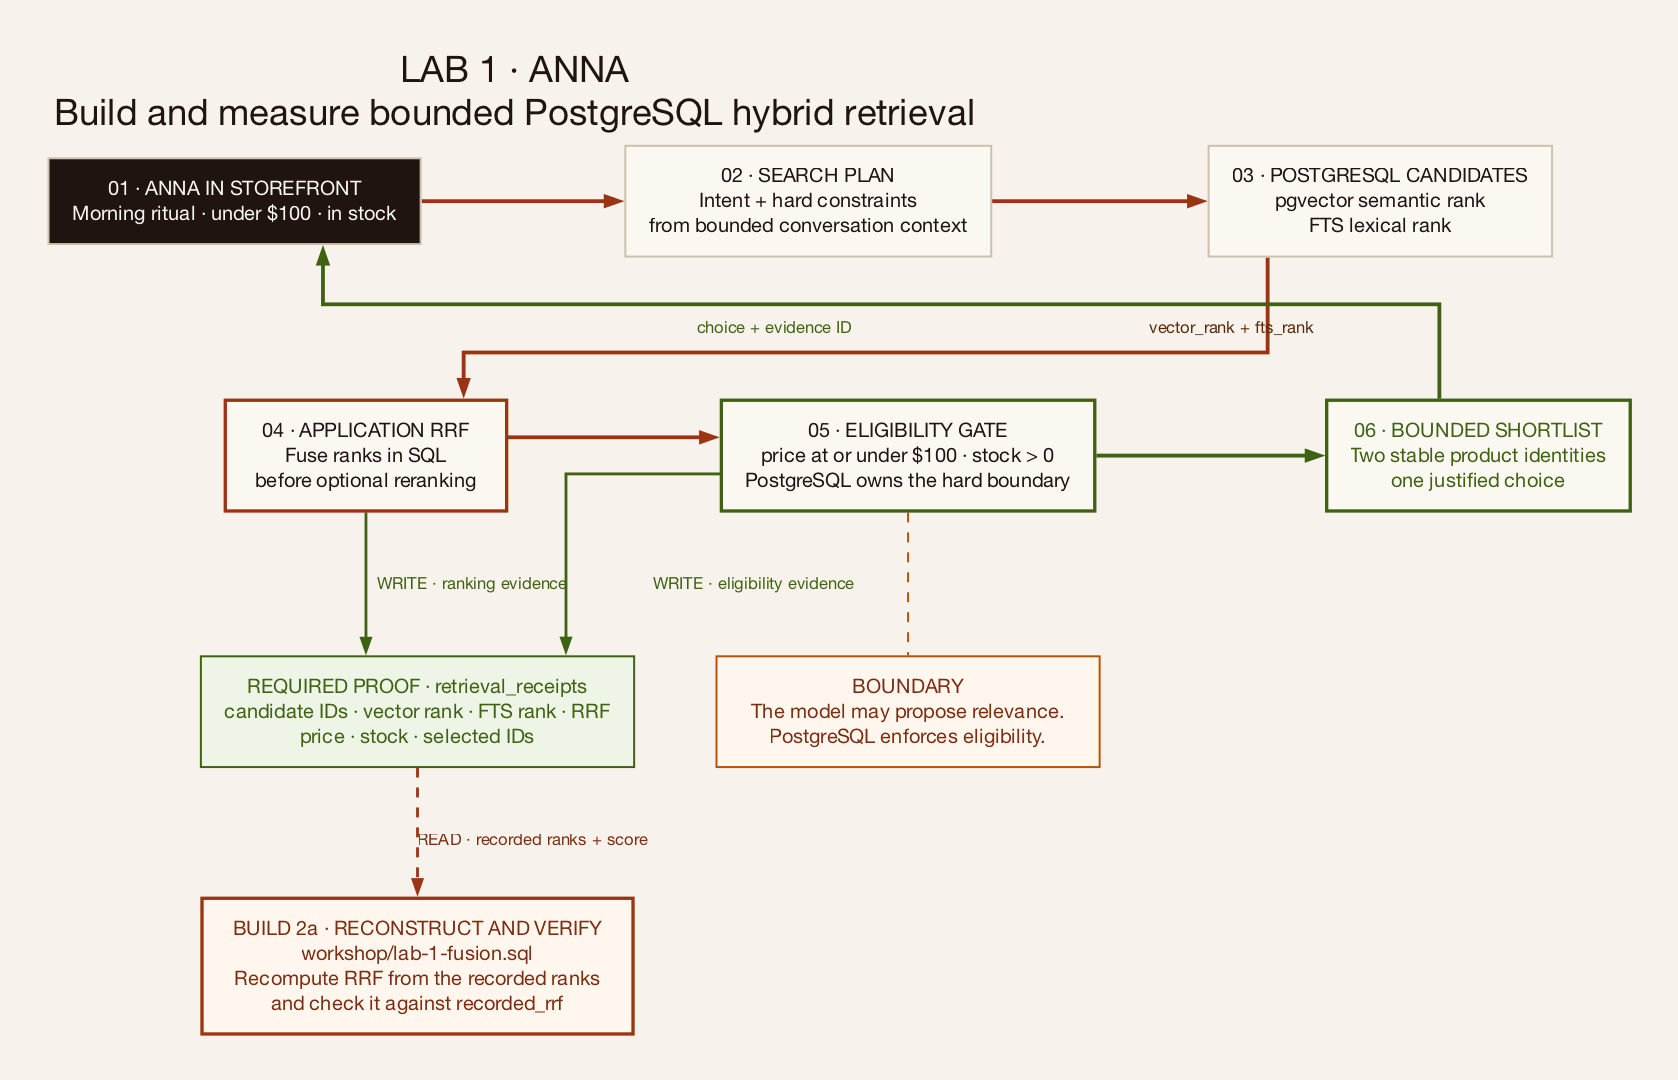
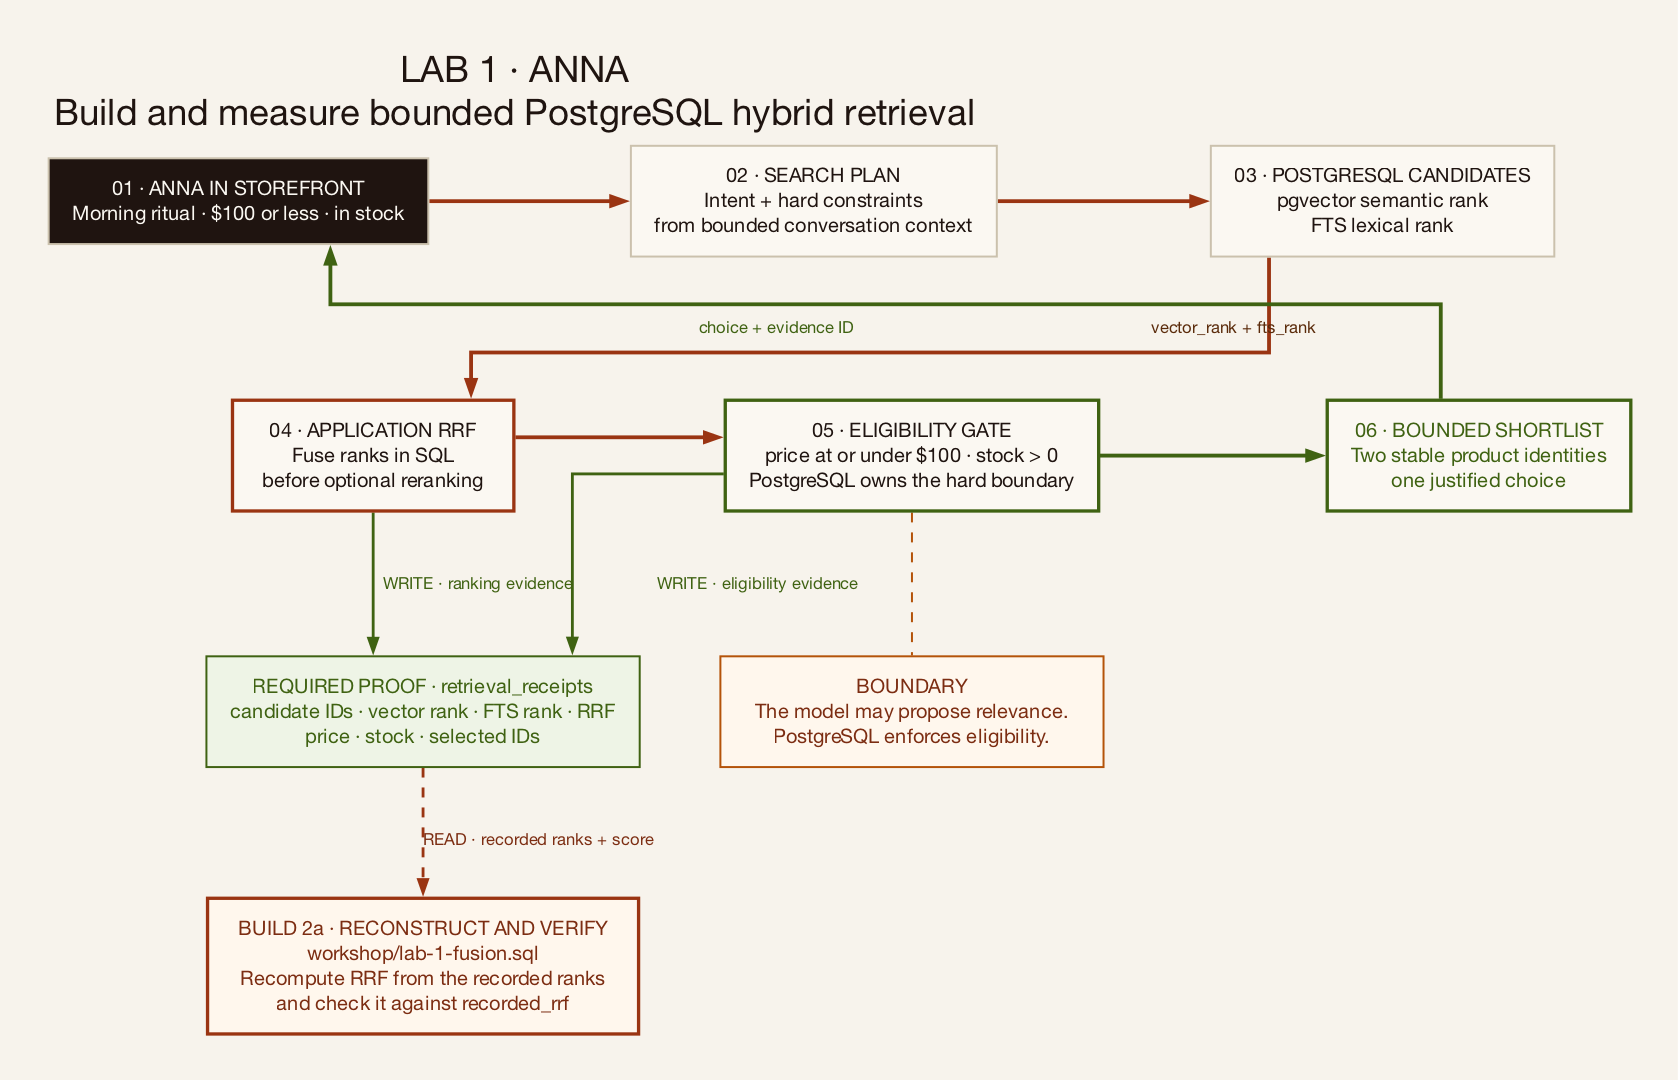
Ask in the catalog's words for Anna's budget and Marco's shirt
Anna asks for a gift for $100 or less, the limit the search applies, and Marco
asks how many units of the Hadley Linen Shirt are in Brooklyn, the catalog's own
name, which check_stock resolves to one product. The scenarios, one-click
journeys, story arc, Stock agent example, lab scripts, recorded Anna turn and
Lab 1 diagram change together; the other shoppers' prompts do not.

diff --git a/pellier/frontend/src/data/workshopJourneys.test.ts b/pellier/frontend/src/data/workshopJourneys.test.ts
@@ -11,12 +11,12 @@ const EXPECTED = {
   marco: [
     'What linen do you have for 10 days in Goa?',
     'What would go with the Hadley Linen Shirt?',
-    'How many Hadley Linen Shirts are available at the Brooklyn warehouse, and how fast does it ship?',
+    'How many units of the Hadley Linen Shirt are available at the Brooklyn warehouse, and how fast does it ship?',
   ],
   anna: [
     'A housewarming gift for a friend who loves slow mornings.',
-    'A housewarming gift for a friend who loves slow mornings. In stock, under $100, and no candles.',
-    'A gift with a watch, under $100, in stock, no candles.',
+    'A housewarming gift for a friend who loves slow mornings. In stock, $100 or less, and no candles.',
+    'A gift with a watch, $100 or less, in stock, no candles.',
   ],
   theo: [
     "Pick one piece you think I'd love.",
@@ -55,11 +55,11 @@ describe('four-lab workshop journey contract', () => {
       expect(WORKSHOP_REQUIRED_PROMPTS).toEqual({
         marco: [
           'Is the Velvet Opera Cape in stock?',
-          'How many Hadley Linen Shirts are available at the Brooklyn warehouse, and how fast does it ship?',
+          'How many units of the Hadley Linen Shirt are available at the Brooklyn warehouse, and how fast does it ship?',
         ],
         anna: [
           'A housewarming gift for a friend who loves slow mornings.',
-          'A housewarming gift for a friend who loves slow mornings. In stock, under $100, and no candles.',
+          'A housewarming gift for a friend who loves slow mornings. In stock, $100 or less, and no candles.',
         ],
         theo: [
           "Pick one piece you think I'd love.",

diff --git a/pellier/frontend/e2e/fixtures/anna-turn.ts b/pellier/frontend/e2e/fixtures/anna-turn.ts
@@ -52,7 +52,7 @@ export const ANNA = {
 }
 
 export const ANNA_QUESTION =
-  'A housewarming gift for a friend who loves slow mornings. In stock, under $100, and no candles.'
+  'A housewarming gift for a friend who loves slow mornings. In stock, $100 or less, and no candles.'
 
 // The three cards the answer names, in the shape `chat.py` emits: catalog
 // fields from `_format_products`, stock from `_attach_stock`.
@@ -68,7 +68,7 @@ const ANSWER =
   'If they like to host, the Linen Napkins, Set of 4 at $44 arrive gift-boxed and ready to give. ' +
   'All three are in stock and under $100.'
 
-const FINDING = '5 found from 64 that fit under $100 and in stock, candles left out'
+const FINDING = '5 found from 64 that fit $100 or less and in stock, candles left out'
 
 export const RRF_K = 60
 export const RERANK_POOL = 15
@@ -206,14 +206,14 @@ const RESULTS = {
   product_ids: ANNA_RESULT_IDS,
   count: ANNA_RESULT_IDS.length,
   limits: [
-    { kind: 'budget', label: 'Under $100', origin: 'stated' },
+    { kind: 'budget', label: '$100 or less', origin: 'stated' },
     { kind: 'stock', label: 'In stock', origin: 'stated' },
     { kind: 'exclusions', value: 'candle', label: 'No candles', origin: 'stated' },
   ],
   filters: RANKING.filters,
 }
 
-const REQUIREMENTS = { applied: ['under $100', 'in stock', 'no candles'], carried: [] }
+const REQUIREMENTS = { applied: ['$100 or less', 'in stock', 'no candles'], carried: [] }
 
 const SKILLS = [
   { name: 'gifts', display_name: 'The Gift Table', path: 'skills/gifts/SKILL.md', loaded: 'fixed' },

diff --git a/pellier/frontend/src/data/workshopJourneys.ts b/pellier/frontend/src/data/workshopJourneys.ts
@@ -33,7 +33,7 @@ export const WORKSHOP_JOURNEYS: Record<WorkshopAnchorId, WorkshopJourney> = {
     prompts: [
       'What linen do you have for 10 days in Goa?',
       'What would go with the Hadley Linen Shirt?',
-      'How many Hadley Linen Shirts are available at the Brooklyn warehouse, and how fast does it ship?',
+      'How many units of the Hadley Linen Shirt are available at the Brooklyn warehouse, and how fast does it ship?',
     ],
   },
   anna: {
@@ -44,8 +44,8 @@ export const WORKSHOP_JOURNEYS: Record<WorkshopAnchorId, WorkshopJourney> = {
     surface: 'storefront',
     prompts: [
       'A housewarming gift for a friend who loves slow mornings.',
-      'A housewarming gift for a friend who loves slow mornings. In stock, under $100, and no candles.',
-      'A gift with a watch, under $100, in stock, no candles.',
+      'A housewarming gift for a friend who loves slow mornings. In stock, $100 or less, and no candles.',
+      'A gift with a watch, $100 or less, in stock, no candles.',
     ],
   },
   theo: {

diff --git a/pellier/frontend/e2e/shopper-sign-in.spec.ts b/pellier/frontend/e2e/shopper-sign-in.spec.ts
@@ -162,7 +162,7 @@ test('choosing a shopper in the panel signs in, switching changes the principal,
 
 test('while a chosen shopper signs in, the panel takes no request that the switch would discard', async ({ page }) => {
   await page.setViewportSize({ width: 1440, height: 900 })
-  const request = 'A housewarming gift for a friend who loves slow mornings. In stock, under $100, and no candles.'
+  const request = 'A housewarming gift for a friend who loves slow mornings. In stock, $100 or less, and no candles.'
   let releaseSwitch = () => {}
   const switchGate = new Promise<void>(resolve => { releaseSwitch = resolve })
   await serve(page, { switchGate, starters: [request] })

diff --git a/pellier/frontend/src/components/FieldNotes.tsx b/pellier/frontend/src/components/FieldNotes.tsx
@@ -38,7 +38,7 @@ const NOTES: readonly Note[] = [
     kicker: 'Field note No. 01',
     title: 'Anna, on gifting as a practiced art.',
     body: [
-      'Anna is choosing a housewarming gift under $100. It needs to be in stock, and candles are off the list. Even when she asks for another idea, those requirements still matter.',
+      'Anna is choosing a housewarming gift for $100 or less. It needs to be in stock, and candles are off the list. Even when she asks for another idea, those requirements still matter.',
     ],
     signature: 'Anna, a gift-giver',
   },

diff --git a/pellier/frontend/src/copy.ts b/pellier/frontend/src/copy.ts
@@ -473,7 +473,7 @@ export const STORYBOARD_TEASERS: StoryboardTeaser[] = [
     volume: "No. 01",
     theme: "Anna",
     title: "On gifting as a practiced art.",
-    excerpt: "A gift under $100, in stock, with no candles.",
+    excerpt: "A gift for $100 or less, in stock, with no candles.",
     link: "Read Anna's note \u203a",
     noteId: "field-note-anna",
     imageUrl: "/products/story-edit.png",

diff --git a/pellier/backend/tests/test_chat_triage.py b/pellier/backend/tests/test_chat_triage.py
@@ -122,7 +122,7 @@ class TestIntentStock:
         "query",
         [
             "Is the Hadley shirt in Brooklyn?",
-            "How many Hadley Linen Shirts are available at the Brooklyn warehouse, and how fast "
+            "How many units of the Hadley Linen Shirt are available at the Brooklyn warehouse, and how fast "
             "does it ship?",
             "Do you have the linen overshirt in Austin?",
             "Can the camp shirt ship from Portland?",
@@ -181,11 +181,11 @@ def test_price_compare_and_browse_stay_with_catalog(query):
 # the Stock agent, or Marco's cape on the Catalog agent).
 GUIDE_SENTENCES = (
     ("A housewarming gift for a friend who loves slow mornings.", "catalog"),
-    ("A housewarming gift for a friend who loves slow mornings. In stock, under $100, "
+    ("A housewarming gift for a friend who loves slow mornings. In stock, $100 or less, "
      "and no candles.", "catalog"),
-    ("A gift with a watch, under $100, in stock, no candles.", "catalog"),
+    ("A gift with a watch, $100 or less, in stock, no candles.", "catalog"),
     ("Is the Velvet Opera Cape in stock?", "stock"),
-    ("How many Hadley Linen Shirts are available at the Brooklyn warehouse, and how fast "
+    ("How many units of the Hadley Linen Shirt are available at the Brooklyn warehouse, and how fast "
      "does it ship?", "stock"),
     ("What linen do you have for 10 days in Goa?", "catalog"),
 )

diff --git a/pellier/backend/tests/test_live_surface_contract.py b/pellier/backend/tests/test_live_surface_contract.py
@@ -89,12 +89,12 @@ def test_every_shoppers_required_prompts_are_their_lab_prompts() -> None:
     assert required == {
         "anna": [
             "A housewarming gift for a friend who loves slow mornings.",
-            "A housewarming gift for a friend who loves slow mornings. In stock, under $100, "
+            "A housewarming gift for a friend who loves slow mornings. In stock, $100 or less, "
             "and no candles.",
         ],
         "marco": [
             "Is the Velvet Opera Cape in stock?",
-            "How many Hadley Linen Shirts are available at the Brooklyn warehouse, "
+            "How many units of the Hadley Linen Shirt are available at the Brooklyn warehouse, "
             "and how fast does it ship?",
         ],
         "theo": [

diff --git a/pellier/backend/tests/test_shopper_choice_postgres.py b/pellier/backend/tests/test_shopper_choice_postgres.py
@@ -23,12 +23,12 @@ FRONTEND_PUBLIC = Path(__file__).resolve().parents[2] / "frontend" / "public"
 LAB_PROMPTS = {
     "anna": [
         "A housewarming gift for a friend who loves slow mornings.",
-        "A housewarming gift for a friend who loves slow mornings. In stock, under $100, "
+        "A housewarming gift for a friend who loves slow mornings. In stock, $100 or less, "
         "and no candles.",
     ],
     "marco": [
         "Is the Velvet Opera Cape in stock?",
-        "How many Hadley Linen Shirts are available at the Brooklyn warehouse, "
+        "How many units of the Hadley Linen Shirt are available at the Brooklyn warehouse, "
         "and how fast does it ship?",
     ],
     "theo": [

diff --git a/pellier/backend/tests/test_active_requirements.py b/pellier/backend/tests/test_active_requirements.py
@@ -260,8 +260,8 @@ def test_a_budget_compares_as_a_normalized_number_in_every_shopper_message() -> 
 
 def test_a_ceiling_a_cent_under_a_written_budget_was_said() -> None:
     # "under $100" applied as at most $99.99 is the same limit, not a new one.
-    assert not _never_said("budget", 99.99, message="In stock, under $100, and no candles.")
-    assert _never_said("budget", 99.0, message="In stock, under $100, and no candles.")
+    assert not _never_said("budget", 99.99, message="In stock, $100 or less, and no candles.")
+    assert _never_said("budget", 99.0, message="In stock, $100 or less, and no candles.")
 
 
 def test_an_excluded_value_compares_as_a_word_singular_or_plural() -> None:

diff --git a/scripts/lab1_vector.py b/scripts/lab1_vector.py
@@ -39,7 +39,7 @@ NEXT_STEP = ("apply Task 1A (uv run scripts/lab_run.py solution --lab 1 --task 1
 SELF_PROBES = ("Stoneware Mugs, Set of 2", "Hadley Linen Shirt", "Sunday Morning Candle")
 LIMITS_PROBE = "Sunday Morning Candle"
 ANNA_REQUEST = ("A housewarming gift for a friend who loves slow mornings. "
-                "In stock, under $100, and no candles.")
+                "In stock, $100 or less, and no candles.")
 ANNA_LIMITS = {"price_max_usd": 100, "in_stock_only": True, "exclusions": ["candle"]}
 
 _EMBEDDING = ('SELECT "productId" AS product_id, embedding::text AS embedding '

diff --git a/scripts/lab1_retry.py b/scripts/lab1_retry.py
@@ -42,7 +42,7 @@ SEND = "uv run scripts/lab_run.py send --lab 1 --task 1B"
 # The guide's request, the one Anna's first suggestion sends: three requirements the
 # first search cannot fill, so the fallback has to run.
 ANNA_REQUEST = ("A housewarming gift for a friend who loves slow mornings. "
-                "In stock, under $100, and no candles.")
+                "In stock, $100 or less, and no candles.")
 TITLE = "Anna's requirements survive the retry"
 EXPECTED = (
     "the retry ran and the search that answered kept every requirement the shopper "
